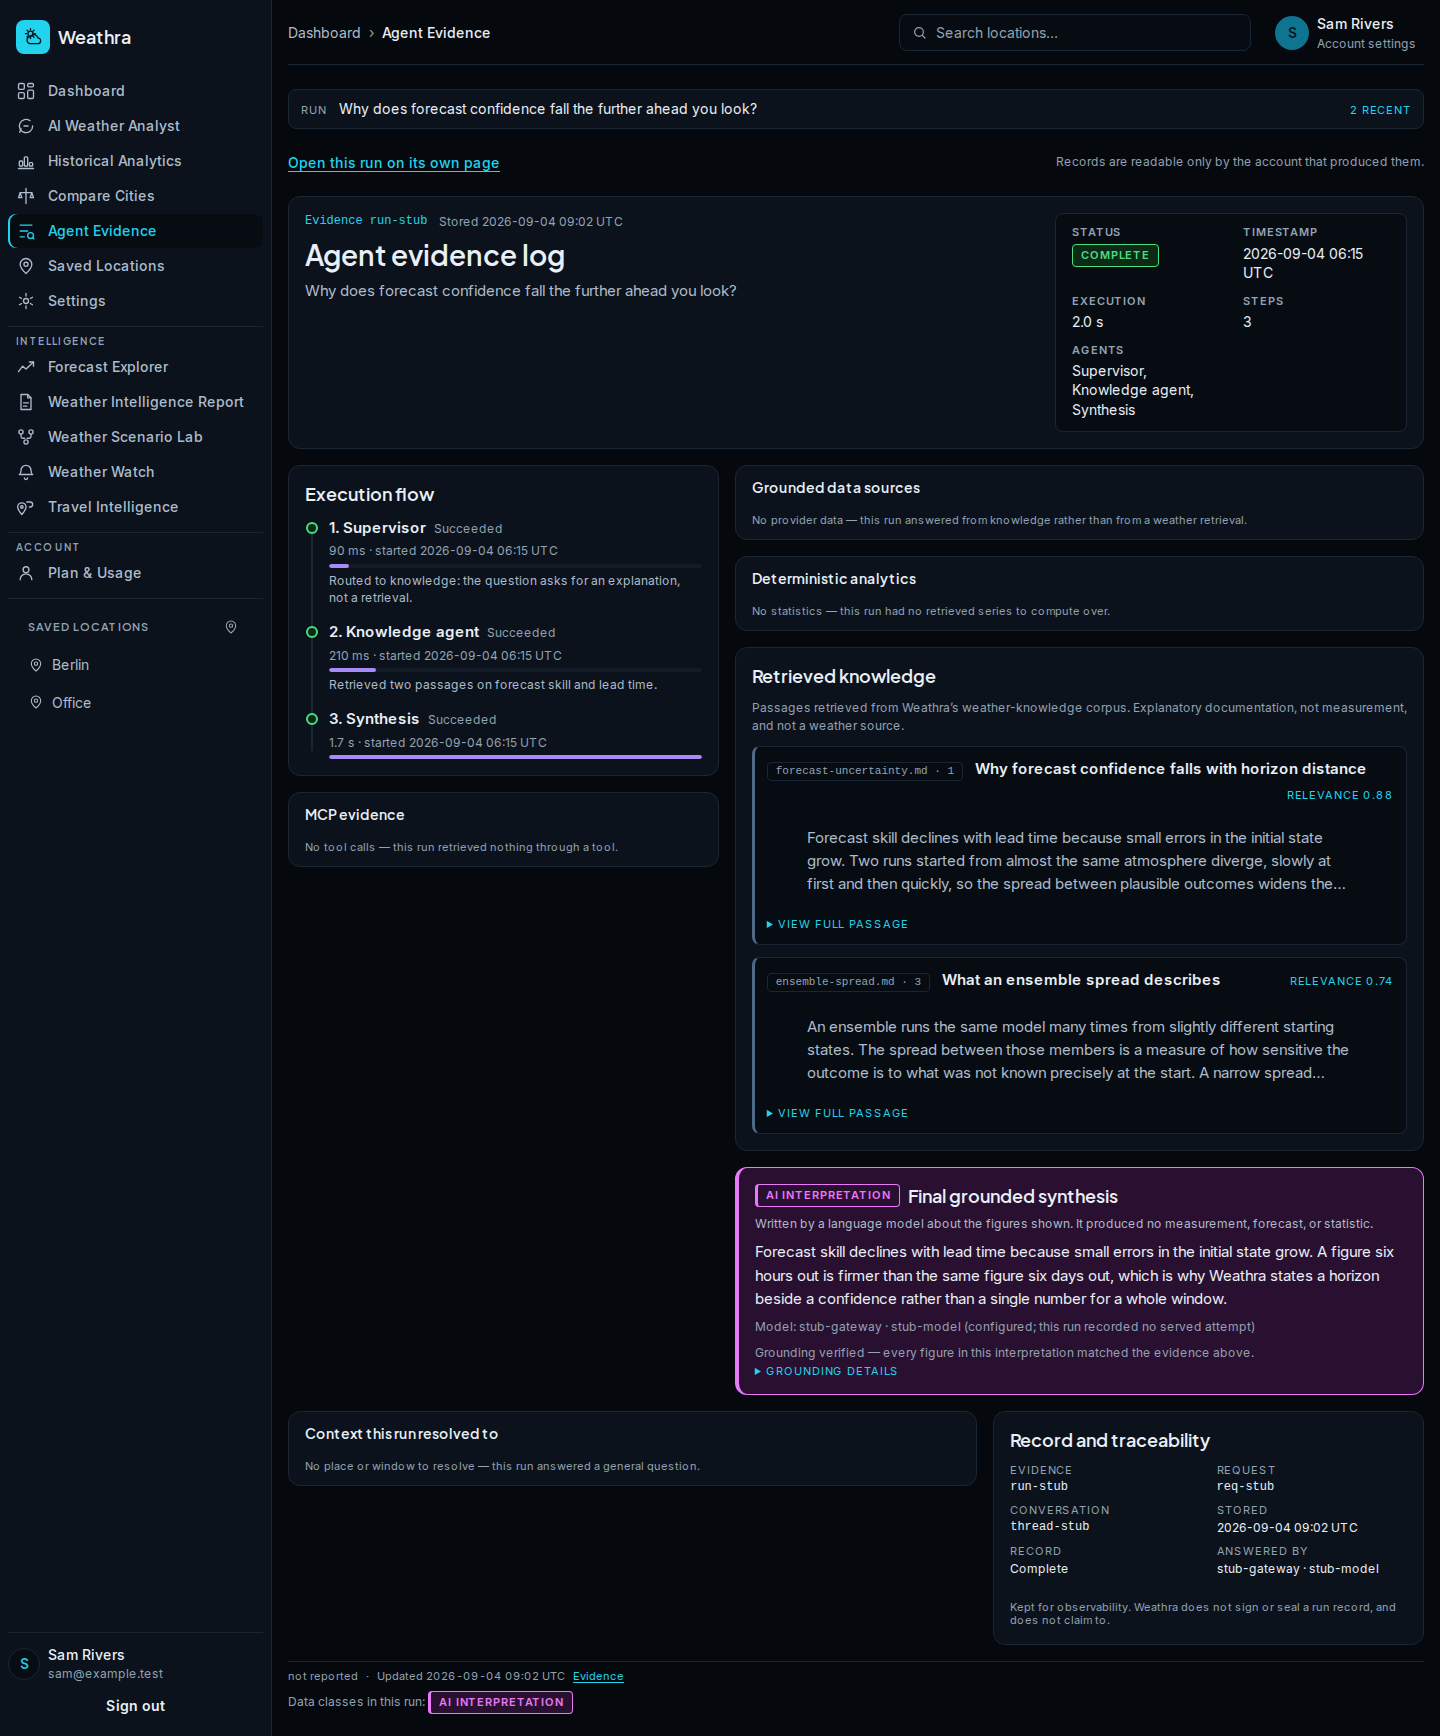
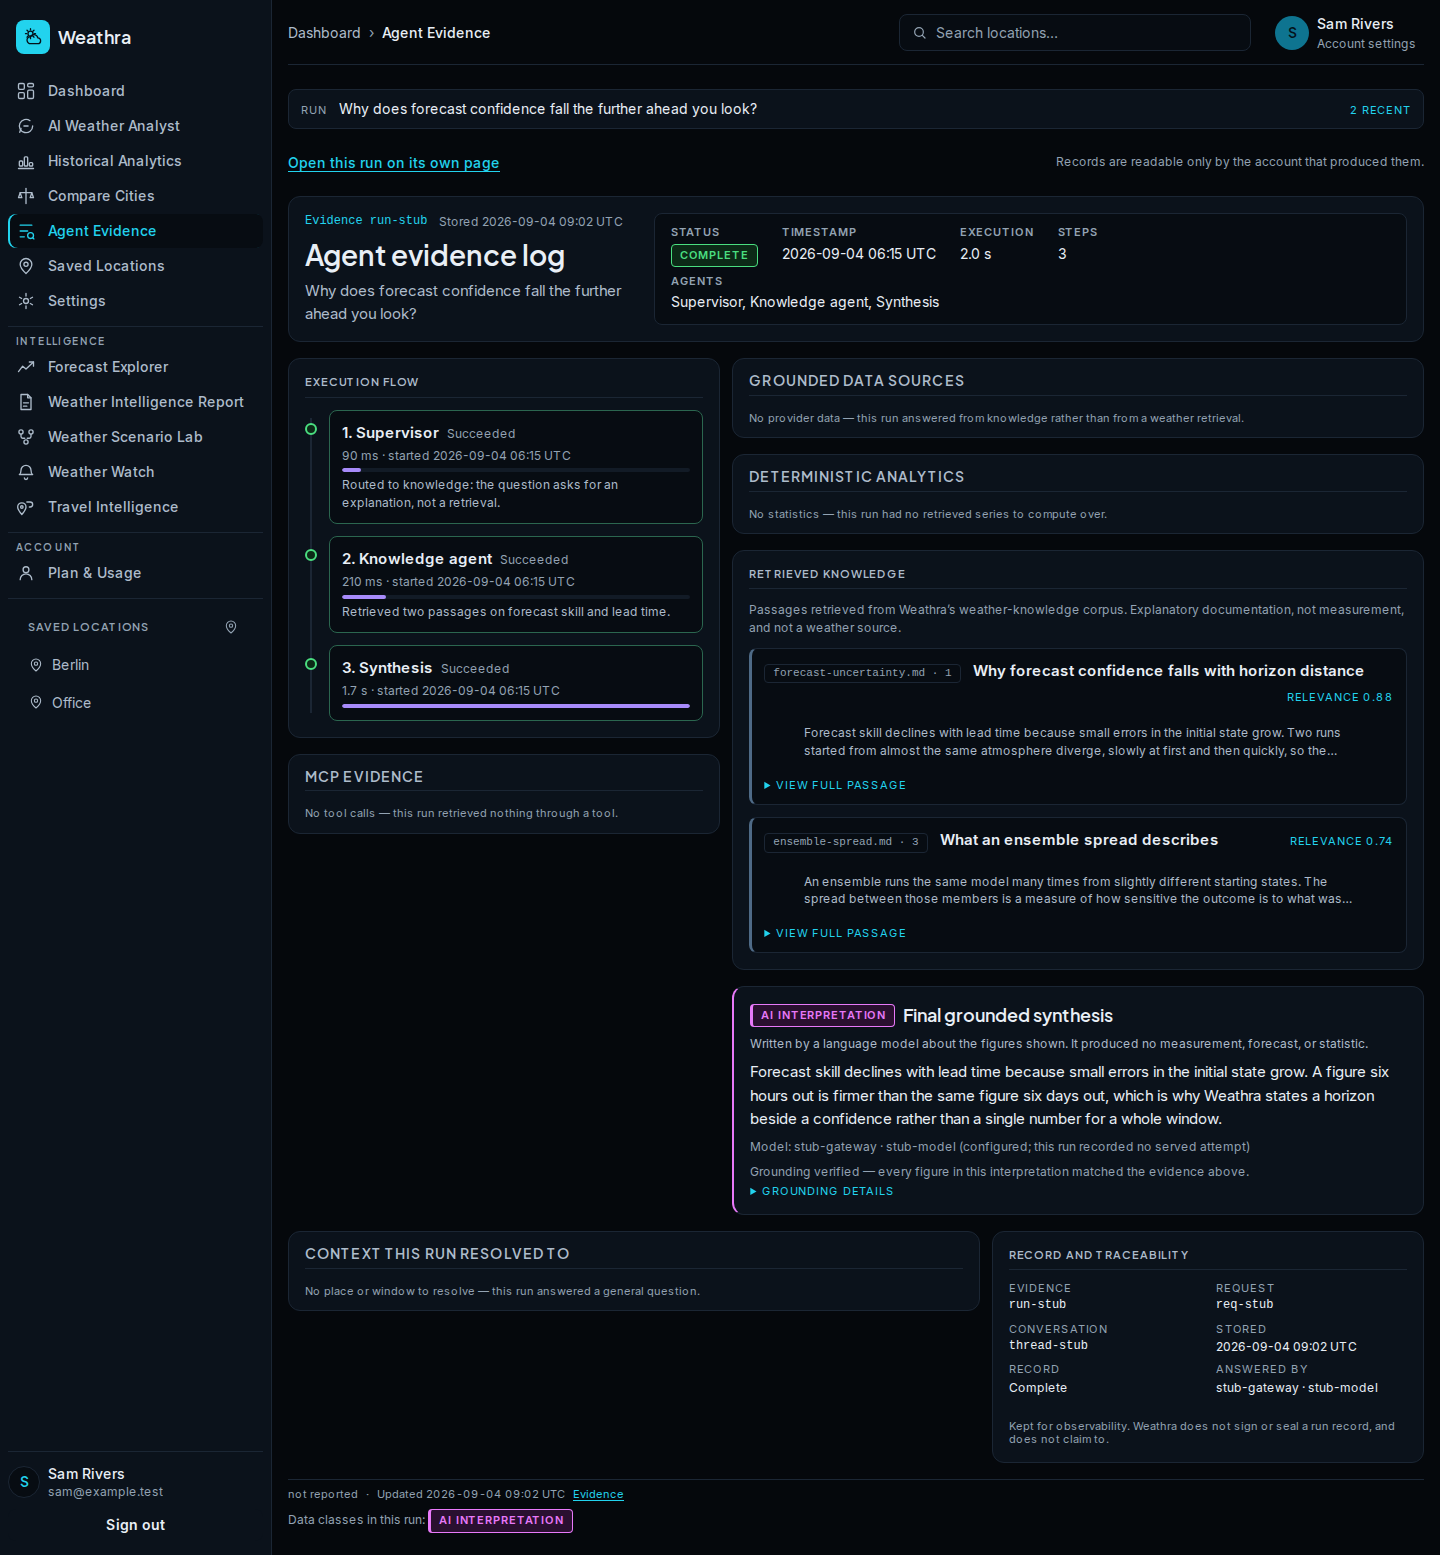
style(evidence): the artifact's register — an instrument, not an article
Four changes, and the first one is most of the difference.

**Section titles are technical, not editorial.** `05-agent-evidence.png` heads its regions
"EXECUTION FLOW", "GROUNDED DATA SOURCES", "RAG KNOWLEDGE EVIDENCE" — small, uppercase,
letterspaced, ruled underneath. Eleven sentence-case display headings down a page read as
documentation *about* evidence rather than as the evidence. This is one rule and it changes the
screenshot more than any layout move in this pass did.

**Each stage is a card on the rail.** Bare text under a hairline read as a list; the artifact draws
a bordered block per stage with its node sitting on the connector beside it, which is what makes a
step look like something that happened.

**The status strip runs across.** Five label/value pairs stacked in a two-column grid made a tall
block beside a short heading; the artifact sets its readings in one row, which is what makes the
header a band rather than a panel with text next to it.

**The AI accent steps back, on this screen only.** `InterpretationPanel` fills and outlines itself
in the interpretation colour — right on the Analyst and the Report, where one model-written
paragraph sits among many deterministic figures. Here the whole page is evidence, and a saturated
block at the end of the stack read as the page's subject rather than as one tier within it. The
badge keeps its full colour, because that is what carries the claim; the panel behind it becomes a
[…]

diff --git a/weathra/frontend/components/evidence/evidence.module.css b/weathra/frontend/components/evidence/evidence.module.css
@@ -1118,3 +1118,132 @@
   gap: var(--space-2) var(--space-4);
   margin: 0;
 }
+
+/* ================= the artifact's visual language: technical, not editorial ================= */
+
+/*
+ * Section titles as the artifact sets them: small, uppercase, letterspaced, with a rule beneath.
+ *
+ * This is the single largest difference between the two screens at a glance, and it is not about
+ * any one panel. `05-agent-evidence.png` heads its regions "EXECUTION FLOW", "GROUNDED DATA
+ * SOURCES", "RAG KNOWLEDGE EVIDENCE" — the register of an instrument. Sentence-case display type
+ * reads as an article, and eleven of them down a page read as documentation about evidence rather
+ * than the evidence itself.
+ */
+.panelTitle,
+.logTitle {
+  font-family: var(--family-display);
+  font-size: var(--type-label-size);
+  line-height: var(--type-label-line);
+  font-weight: var(--type-label-weight);
+  letter-spacing: 0.08em;
+  text-transform: uppercase;
+  color: var(--color-text-secondary);
+}
+
+.panelHeader {
+  padding-bottom: var(--space-2);
+  border-bottom: 1px solid var(--color-border-subtle);
+}
+
+.panel[data-empty="true"] .panelHeader {
+  padding-bottom: var(--space-1);
+  border-bottom: 1px solid var(--color-border-subtle);
+}
+
+/* The panels themselves sit tighter, so the stack has the artifact's rhythm. */
+.panel {
+  gap: var(--space-3);
+  padding: var(--space-4);
+}
+
+.body,
+.footGrid {
+  gap: var(--space-3);
+}
+
+/*
+ * The status strip runs across, not down.
+ *
+ * A two-column grid stacked five pairs into a tall block beside a short heading; the artifact sets
+ * its four readings in one row, which is what makes the header a *band* rather than a panel with
+ * text next to it.
+ */
+@media (min-width: 1024px) {
+  .headerGrid .summary {
+    display: flex;
+    flex-wrap: wrap;
+    gap: var(--space-2) var(--space-5);
+    align-items: flex-start;
+  }
+
+  .headerGrid .summaryItem {
+    min-width: 0;
+  }
+
+  /* The agent list is the one reading that runs long, so it wraps to its own line. */
+  .headerGrid .summaryItem:last-child {
+    flex-basis: 100%;
+  }
+}
+
+/*
+ * Each step is a card on the rail, not a row of text.
+ *
+ * The artifact draws a bordered block per stage with its node sitting on the connector beside it.
+ * Bare text under a hairline read as a list; the border is what makes a stage look like a thing
+ * that happened.
+ */
+.step {
+  padding: var(--space-3);
+  border: 1px solid var(--color-border-subtle);
+  border-radius: var(--radius-md);
+  background: var(--color-surface-inset);
+}
+
+.step::before {
+  left: calc(-1 * var(--space-5) - 1px);
+  top: var(--space-3);
+}
+
+.step[data-status="succeeded"] {
+  border-color: color-mix(in srgb, var(--color-status-ok) 35%, var(--color-border-subtle));
+}
+
+.steps {
+  gap: var(--space-3);
+}
+
+.steps::before {
+  left: 5px;
+}
+
+/* The knowledge cards tighten to the artifact's two-line excerpt. */
+.citationText[data-clamped="true"] {
+  -webkit-line-clamp: 2;
+  line-clamp: 2;
+  font-size: var(--type-meta-size);
+  line-height: var(--type-meta-line);
+}
+
+.citation {
+  padding: var(--space-3);
+}
+
+/*
+ * The AI accent, restrained — on this screen only.
+ *
+ * `InterpretationPanel` fills and outlines itself in the interpretation colour, which is right on
+ * the Analyst and the Report where one model-written paragraph sits among many deterministic
+ * figures and must not be mistaken for one. Here the whole page is evidence, and a saturated block
+ * at the end of the stack reads as the page's subject rather than as one tier within it — the
+ * artifact integrates its synthesis into the same dark system and marks the tier with an accent.
+ *
+ * The badge keeps its full colour, which is what actually carries the claim; the panel behind it
+ * steps back. Scoped to this screen so the two frozen surfaces are untouched.
+ */
+.screen [data-interpretation="true"] {
+  background: var(--color-surface-raised);
+  border-color: var(--color-border-subtle);
+  border-left: 2px solid var(--color-class-interpretation, var(--color-accent));
+}
